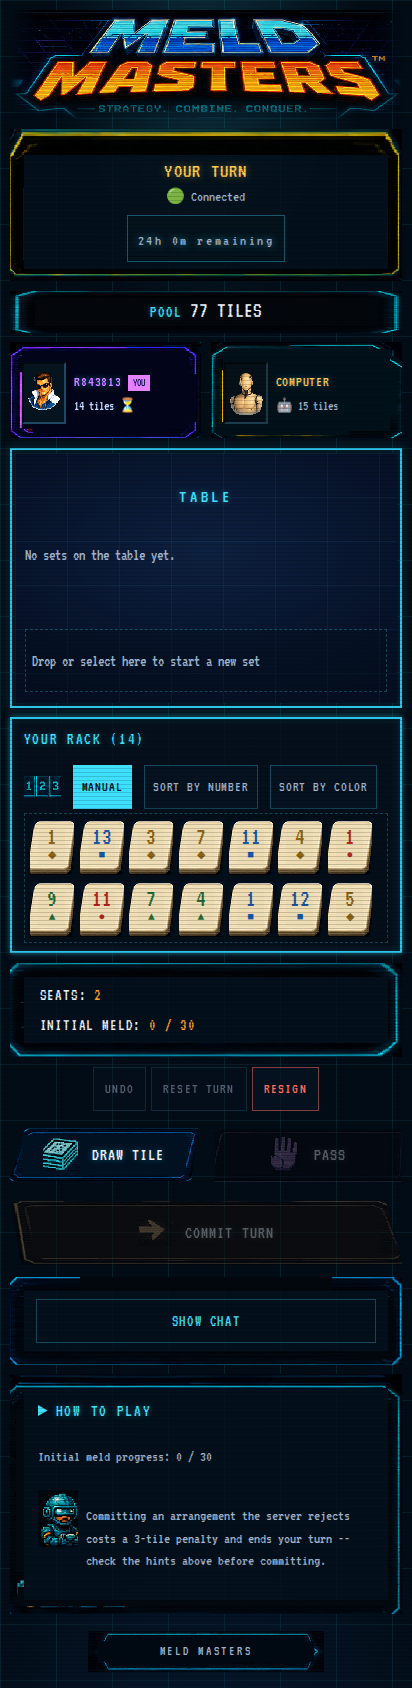
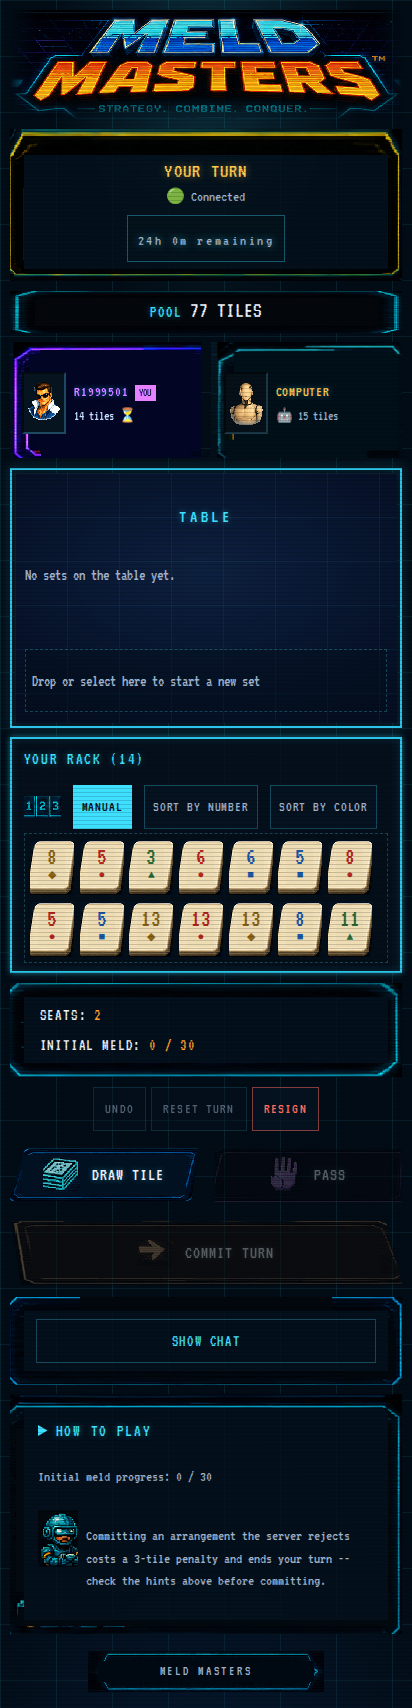
fix(mobile): extract phone frames from the designer's phone comps
Round-5 phone polish: after round 4's whole-art stretch, the home plates
still showed thinned/cut edges and the COMPUTER card was still malformed
-- the desktop extractions those stretches reuse have baked background
bleed, erased-tab gaps, and slash remnants that no CSS treatment can
repair. The designer's phone comps (mainscreen.jpg, mobile.jpeg) contain
these exact frames drawn at phone aspect, so extract them through the
existing pipeline instead:

- New phoneHome/phoneGame sources and eight *-phone-* assets in
  scripts/arcade-kit.manifest.json (5 menu plates, signed-in badge, and
  the purple/cyan competitor cards), flattened interiors with erase
  rects for the icon shelf and YOU badge that poke past the insets.
- Phone CSS now stretches those comp extractions; the gold
  background-oversize workaround is gone. Cards get min-height 116px to
  sit near the comp aspect, and the downscaled comp art renders with
  image-rendering auto (pixelated dropped rows from the thin bevels).
- arcadeManifest.test.ts learns JPEG source dimensions (the comps are
  JPEGs; extracted assets remain PNGs).
- docs/arcade-visual-kit.md records the phone comps as the binding phone
  specs.

Desktop pixel-identical (screenshot diff bbox None). 501 unit tests;
arcade-regions + tabletopMobile + mobileOverflow + accessibility e2e
18/18 (chromium).

Claude-Session: https://claude.ai/code/session_01Cb4e8oJrM1C4jyKvRVtA5U

diff --git a/apps/web/src/styles/arcade-kit.css b/apps/web/src/styles/arcade-kit.css
@@ -2144,6 +2144,15 @@ button.danger:disabled {
     background-size: 100% 100%;
   }
 
+  /* The home plates, badge, and cards use frames extracted from the
+     designer's phone comps at 1080px -- downscaled here, so smooth
+     sampling, not pixelated (which drops rows from the thin bevels). */
+  .home-menu-plate,
+  .home-signed-in,
+  .competitor-card {
+    image-rendering: auto;
+  }
+
   .home-menu-plate {
     min-height: 96px;
     padding: 0.5rem 3rem;
@@ -2152,21 +2161,14 @@ button.danger:disabled {
   .home-signed-in {
     min-height: 76px;
     padding: 0.4rem 2.6rem;
-    background-image: url("../assets/arcade/frame/badge-signed-in.png");
+    background-image: url("../assets/arcade/frame/badge-phone-signed-in.png");
   }
 
-  .home-menu-plate[data-plate="plate-menu-cyan"] { background-image: url("../assets/arcade/plate/menu-cyan.png"); }
-  .home-menu-plate[data-plate="plate-menu-green"] { background-image: url("../assets/arcade/plate/menu-green.png"); }
-  .home-menu-plate[data-plate="plate-menu-red"] { background-image: url("../assets/arcade/plate/menu-red.png"); }
-  .home-menu-plate[data-plate="plate-menu-purple"] { background-image: url("../assets/arcade/plate/menu-purple.png"); }
-
-  /* Gold art carries ~6px of baked page background under its bottom bar;
-     oversize the background height so that band lands outside the box. */
-  .home-menu-plate[data-plate="plate-menu-gold"] {
-    background-image: url("../assets/arcade/plate/menu-gold.png");
-    background-size: 100% 106%;
-    background-position: top;
-  }
+  .home-menu-plate[data-plate="plate-menu-cyan"] { background-image: url("../assets/arcade/plate/phone-cyan.png"); }
+  .home-menu-plate[data-plate="plate-menu-green"] { background-image: url("../assets/arcade/plate/phone-green.png"); }
+  .home-menu-plate[data-plate="plate-menu-red"] { background-image: url("../assets/arcade/plate/phone-red.png"); }
+  .home-menu-plate[data-plate="plate-menu-purple"] { background-image: url("../assets/arcade/plate/phone-purple.png"); }
+  .home-menu-plate[data-plate="plate-menu-gold"] { background-image: url("../assets/arcade/plate/phone-gold.png"); }
 
   /* Action plates: the slanted silhouettes keep baked background in their
      rectangular crops' corners, so clip to the plate outline (a hair
@@ -2195,17 +2197,20 @@ button.danger:disabled {
     padding: 0.35rem 2.2rem;
   }
 
-  /* Competitor cards: same whole-art treatment via the tone classes. */
+  /* Competitor cards: same whole-art treatment via the tone classes.
+     Gold and purple (the 2-seat tones) use the phone-comp card frames;
+     min-height keeps the render near the comp cards' aspect. */
   .competitor-card {
     border: 0;
     border-image: none;
     background-repeat: no-repeat;
     background-size: 100% 100%;
     padding: 1.1rem 0.8rem 0.7rem;
+    min-height: 116px;
   }
 
-  .competitor-card--tone-gold { background-image: url("../assets/arcade/card/competitor-gold.png"); }
-  .competitor-card--tone-purple { background-image: url("../assets/arcade/card/competitor-purple.png"); }
+  .competitor-card--tone-gold { background-image: url("../assets/arcade/card/phone-cyan.png"); }
+  .competitor-card--tone-purple { background-image: url("../assets/arcade/card/phone-purple.png"); }
   .competitor-card--tone-pink { background-image: url("../assets/arcade/card/competitor-pink.png"); }
   .competitor-card--tone-green { background-image: url("../assets/arcade/card/competitor-green.png"); }
 

diff --git a/apps/web/src/assets/arcade/manifest.ts b/apps/web/src/assets/arcade/manifest.ts
@@ -61,6 +61,14 @@ import img_button_speaker from "./icon/button-speaker.png";
 import img_footer_strip_phone from "./frame/footer-strip-phone.png";
 import img_button_square_menu from "./icon/button-square-menu.png";
 import img_wordmark_tabletop from "./masthead/wordmark-tabletop.png";
+import img_badge_phone_signed_in from "./frame/badge-phone-signed-in.png";
+import img_plate_phone_cyan from "./plate/phone-cyan.png";
+import img_plate_phone_gold from "./plate/phone-gold.png";
+import img_plate_phone_purple from "./plate/phone-purple.png";
+import img_plate_phone_green from "./plate/phone-green.png";
+import img_plate_phone_red from "./plate/phone-red.png";
+import img_card_phone_purple from "./card/phone-purple.png";
+import img_card_phone_cyan from "./card/phone-cyan.png";
 
 export interface ArcadeAsset {
   url: string;
@@ -131,6 +139,14 @@ export const arcadeAssets = {
   "footer-strip-phone": { url: img_footer_strip_phone, width: 706, height: 56, slice: { top: 14, right: 14, bottom: 14, left: 14 } },
   "button-square-menu": { url: img_button_square_menu, width: 82, height: 82 },
   "wordmark-tabletop": { url: img_wordmark_tabletop, width: 672, height: 224 },
+  "badge-phone-signed-in": { url: img_badge_phone_signed_in, width: 1034, height: 226 },
+  "plate-phone-cyan": { url: img_plate_phone_cyan, width: 1034, height: 274 },
+  "plate-phone-gold": { url: img_plate_phone_gold, width: 1016, height: 219 },
+  "plate-phone-purple": { url: img_plate_phone_purple, width: 1012, height: 243 },
+  "plate-phone-green": { url: img_plate_phone_green, width: 1012, height: 230 },
+  "plate-phone-red": { url: img_plate_phone_red, width: 1014, height: 264 },
+  "card-phone-purple": { url: img_card_phone_purple, width: 506, height: 378 },
+  "card-phone-cyan": { url: img_card_phone_cyan, width: 464, height: 378 },
 } as const satisfies Record<string, ArcadeAsset>;
 
 export type ArcadeAssetName = keyof typeof arcadeAssets;

diff --git a/apps/web/test/arcadeManifest.test.ts b/apps/web/test/arcadeManifest.test.ts
@@ -43,8 +43,28 @@ function pngSize(file: string): { width: number; height: number } {
   return { width: buf.readUInt32BE(16), height: buf.readUInt32BE(20) };
 }
 
+/** Width/height from a JPEG's first SOF marker (phone-comp sources). */
+function jpegSize(file: string): { width: number; height: number } {
+  const buf = readFileSync(file);
+  expect(buf.readUInt16BE(0)).toBe(0xffd8);
+  let pos = 2;
+  while (pos + 9 < buf.length) {
+    expect(buf[pos]).toBe(0xff);
+    const marker = buf[pos + 1]!;
+    if (marker >= 0xc0 && marker <= 0xcf && ![0xc4, 0xc8, 0xcc].includes(marker)) {
+      return { width: buf.readUInt16BE(pos + 7), height: buf.readUInt16BE(pos + 5) };
+    }
+    pos += 2 + buf.readUInt16BE(pos + 2);
+  }
+  throw new Error(`${file}: no JPEG SOF marker found`);
+}
+
+function imageSize(file: string): { width: number; height: number } {
+  return /\.jpe?g$/i.test(file) ? jpegSize(file) : pngSize(file);
+}
+
 const sourceSizes = new Map<string, { width: number; height: number }>(
-  Object.entries(manifest.sources).map(([key, rel]) => [key, pngSize(path.join(repoRoot, rel))]),
+  Object.entries(manifest.sources).map(([key, rel]) => [key, imageSize(path.join(repoRoot, rel))]),
 );
 
 describe("arcade-kit manifest", () => {

diff --git a/docs/arcade-visual-kit.md b/docs/arcade-visual-kit.md
@@ -22,9 +22,15 @@ Binding targets:
 | Screen | Spec |
 |---|---|
 | Home desktop | `docs/design-reference/v2/new_layout1.png` |
+| Home phone | `docs/design-reference/mainscreen.jpg` (designer phone comp, 2026-08-02) |
 | Tabletop desktop | `docs/design-reference/meld-masters/meld-masters-concept-01.png` |
-| Tabletop phone portrait | `.../meld-masters-concept-03.png` |
+| Tabletop phone portrait | `docs/design-reference/mobile.jpeg` + `gameplay.jpg` (designer phone comps, 2026-08-02; supersede `.../meld-masters-concept-03.png`) |
 | Utility screens | derived from the kit language (no 1:1 concept) |
+
+Phone-specific chrome (the `*-phone-*` assets) is extracted from the phone
+comps and rendered as a whole-art background stretch on phone — the
+desktop frames' braces and slants don't 9-slice cleanly at phone
+aspect ratios (see the round-4 notes in `arcade-kit.css`).
 
 ## Asset pipeline
 
